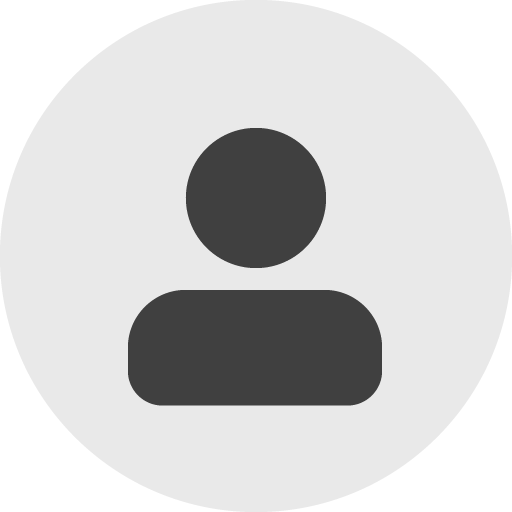
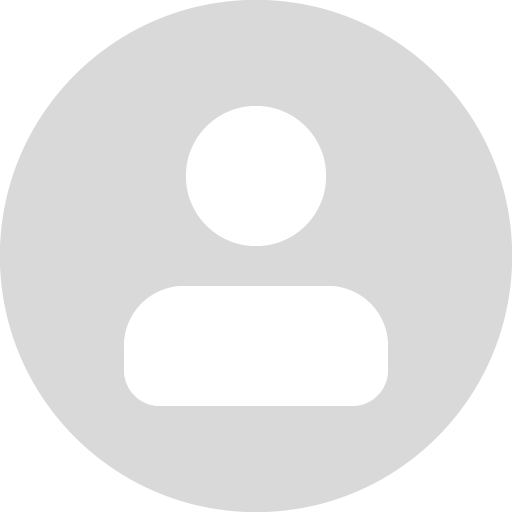
[hebing]  * add maskWidget for faceicon in userinfo  * change the default face file

Changed region(s): [[0.25, 0.5625, 0.75, 0.8125], [0.3438, 0.25, 0.6562, 0.5312]]

diff --git a/plugins/account/userinfo/elipsemaskwidget.cpp b/plugins/account/userinfo/elipsemaskwidget.cpp
@@ -1,0 +1,56 @@
+/* -*- Mode: C; tab-width: 4; indent-tabs-mode: nil; c-basic-offset: 4 -*-
+ *
+ * Copyright (C) 2019 Tianjin KYLIN Information Technology Co., Ltd.
+ *
+ * This program is free software; you can redistribute it and/or modify
+ * it under the terms of the GNU General Public License as published by
+ * the Free Software Foundation; either version 2 of the License, or
+ * (at your option) any later version.
+ *
+ * This program is distributed in the hope that it will be useful,
+ * but WITHOUT ANY WARRANTY; without even the implied warranty of
+ * MERCHANTABILITY or FITNESS FOR A PARTICULAR PURPOSE.  See the
+ * GNU General Public License for more details.
+ *
+ * You should have received a copy of the GNU General Public License
+ * along with this program; if not, write to the Free Software
+ * Foundation, Inc., 51 Franklin St, Fifth Floor, Boston, MA 02110-1301, USA.
+ *
+ */
+#include "elipsemaskwidget.h"
+
+#include <QPainter>
+
+ElipseMaskWidget::ElipseMaskWidget(QWidget *parent) :
+    QWidget(parent)
+{
+    setAttribute(Qt::WA_DeleteOnClose);
+    pWidth = parent->width();
+    pHeigh = parent->height();
+    pRadius = 6;
+    pColor = QString("#ffffff");
+    pBorder = 1;
+}
+
+ElipseMaskWidget::~ElipseMaskWidget()
+{
+}
+
+void ElipseMaskWidget::setBgColor(QString color){
+    pColor = color;
+}
+
+void ElipseMaskWidget::paintEvent(QPaintEvent *e){
+    Q_UNUSED(e)
+
+    QPainterPath cPath;
+    cPath.addRect(0, 0, pWidth, pHeigh);
+    cPath.addEllipse(0, 0, pWidth, pHeigh);
+
+    QPainter painter(this);
+    painter.setRenderHint(QPainter:: Antialiasing, true);  //设置渲染,启动反锯齿
+    painter.setPen(QPen(QColor(pColor), pBorder));
+    painter.drawPath(cPath);
+    painter.fillPath(cPath, QBrush(QColor(pColor)));
+
+}

diff --git a/plugins/account/userinfo/elipsemaskwidget.h b/plugins/account/userinfo/elipsemaskwidget.h
@@ -1,0 +1,48 @@
+/* -*- Mode: C; tab-width: 4; indent-tabs-mode: nil; c-basic-offset: 4 -*-
+ *
+ * Copyright (C) 2019 Tianjin KYLIN Information Technology Co., Ltd.
+ *
+ * This program is free software; you can redistribute it and/or modify
+ * it under the terms of the GNU General Public License as published by
+ * the Free Software Foundation; either version 2 of the License, or
+ * (at your option) any later version.
+ *
+ * This program is distributed in the hope that it will be useful,
+ * but WITHOUT ANY WARRANTY; without even the implied warranty of
+ * MERCHANTABILITY or FITNESS FOR A PARTICULAR PURPOSE.  See the
+ * GNU General Public License for more details.
+ *
+ * You should have received a copy of the GNU General Public License
+ * along with this program; if not, write to the Free Software
+ * Foundation, Inc., 51 Franklin St, Fifth Floor, Boston, MA 02110-1301, USA.
+ *
+ */
+#ifndef ELIPSEMASKWIDGET_H
+#define ELIPSEMASKWIDGET_H
+
+#include <QWidget>
+
+class ElipseMaskWidget : public QWidget
+{
+    Q_OBJECT
+
+public:
+    explicit ElipseMaskWidget(QWidget *parent = nullptr);
+    ~ElipseMaskWidget();
+
+public:
+    void setBgColor(QString color);
+
+protected:
+    void paintEvent(QPaintEvent *event);
+
+private:
+    int pWidth;
+    int pHeigh;
+    int pRadius;
+    int pBorder;
+    QString pColor;
+
+};
+
+#endif // ELIPSEMASKWIDGET_H

diff --git a/plugins/account/userinfo/changefacedialog.cpp b/plugins/account/userinfo/changefacedialog.cpp
@@ -21,6 +21,7 @@
 #include "ui_changefacedialog.h"
 
 #include "FlowLayout/flowlayout.h"
+#include "elipsemaskwidget.h"
 
 #include <QDebug>
 
@@ -39,6 +40,10 @@ ChangeFaceDialog::ChangeFaceDialog(QWidget *parent) :
     ui->closeBtn->setStyleSheet("QPushButton{background: #ffffff; border: none;}");
 
     ui->closeBtn->setIcon(QIcon("://img/titlebar/close.png"));
+
+    ElipseMaskWidget * cfMaskWidget = new ElipseMaskWidget(ui->faceLabel);
+//    cfMaskWidget->setBgColor("#F4F4F4");
+    cfMaskWidget->setGeometry(0, 0, ui->faceLabel->width(), ui->faceLabel->height());
 
     loadSystemFaces();
 
@@ -67,6 +72,10 @@ void ChangeFaceDialog::loadSystemFaces(){
     foreach (QString filename, facesDir.entryList(QDir::Files)){
 //        facesList.append(FACEPATH + filename);
         QString fullface = QString("%1%2").arg(FACEPATH).arg(filename);
+        if (fullface.endsWith(".svg"))
+            continue;
+        if (fullface.endsWith("default.png"))
+            continue;
 
         QPushButton * button = new QPushButton;
         button->setAttribute(Qt::WA_DeleteOnClose);

diff --git a/plugins/account/userinfo/userinfo.cpp b/plugins/account/userinfo/userinfo.cpp
@@ -29,6 +29,7 @@
 
 #include "SwitchButton/switchbutton.h"
 #include "HoverWidget/hoverwidget.h"
+#include "elipsemaskwidget.h"
 
 /* qt会将glib里的signals成员识别为宏，所以取消该宏
  * 后面如果用到signals时，使用Q_SIGNALS代替即可
@@ -215,6 +216,10 @@ void UserInfo::initComponent(){
     ui->listWidget->setHorizontalScrollBarPolicy(Qt::ScrollBarAlwaysOff);
     ui->listWidget->setVerticalScrollBarPolicy(Qt::ScrollBarAlwaysOff);
     ui->listWidget->setSpacing(0);
+
+    ElipseMaskWidget * mainElipseMaskWidget = new ElipseMaskWidget(ui->currentUserFaceLabel);
+    mainElipseMaskWidget->setBgColor("#F4F4F4");
+    mainElipseMaskWidget->setGeometry(0, 0, ui->currentUserFaceLabel->width(), ui->currentUserFaceLabel->height());
 
     //设置添加用户的图标
     ui->addBtn->setIcon(QIcon("://img/plugins/userinfo/add.png"));

diff --git a/plugins/account/userinfo/changetypedialog.cpp b/plugins/account/userinfo/changetypedialog.cpp
@@ -20,6 +20,8 @@
 #include "changetypedialog.h"
 #include "ui_changetypedialog.h"
 
+#include "elipsemaskwidget.h"
+
 #include <QDebug>
 
 ChangeTypeDialog::ChangeTypeDialog(QWidget *parent) :
@@ -48,6 +50,10 @@ ChangeTypeDialog::~ChangeTypeDialog()
 }
 
 void ChangeTypeDialog::setupComonpent(){
+
+    ElipseMaskWidget * ctMaskWidget = new ElipseMaskWidget(ui->faceLabel);
+    ctMaskWidget->setGeometry(0, 0, ui->faceLabel->width(), ui->faceLabel->height());
+
     ui->buttonGroup->setId(ui->standardRadioButton, 0);
     ui->buttonGroup->setId(ui->adminRadioButton, 1);
 

diff --git a/plugins/account/userinfo/changepwddialog.cpp b/plugins/account/userinfo/changepwddialog.cpp
@@ -20,6 +20,8 @@
 #include "changepwddialog.h"
 #include "ui_changepwddialog.h"
 
+#include "elipsemaskwidget.h"
+
 #include <QStyledItemDelegate>
 
 #define PWD_LOW_LENGTH 6
@@ -63,6 +65,10 @@ ChangePwdDialog::~ChangePwdDialog()
 }
 
 void ChangePwdDialog::setupComponent(){
+
+    ElipseMaskWidget * cpMaskWidget = new ElipseMaskWidget(ui->faceLabel);
+    cpMaskWidget->setGeometry(0, 0, ui->faceLabel->width(), ui->faceLabel->height());
+
     ui->pwdtypeComboBox->addItem(tr("General Pwd"));
 
     ui->pwdLineEdit->setEchoMode(QLineEdit::Password);
